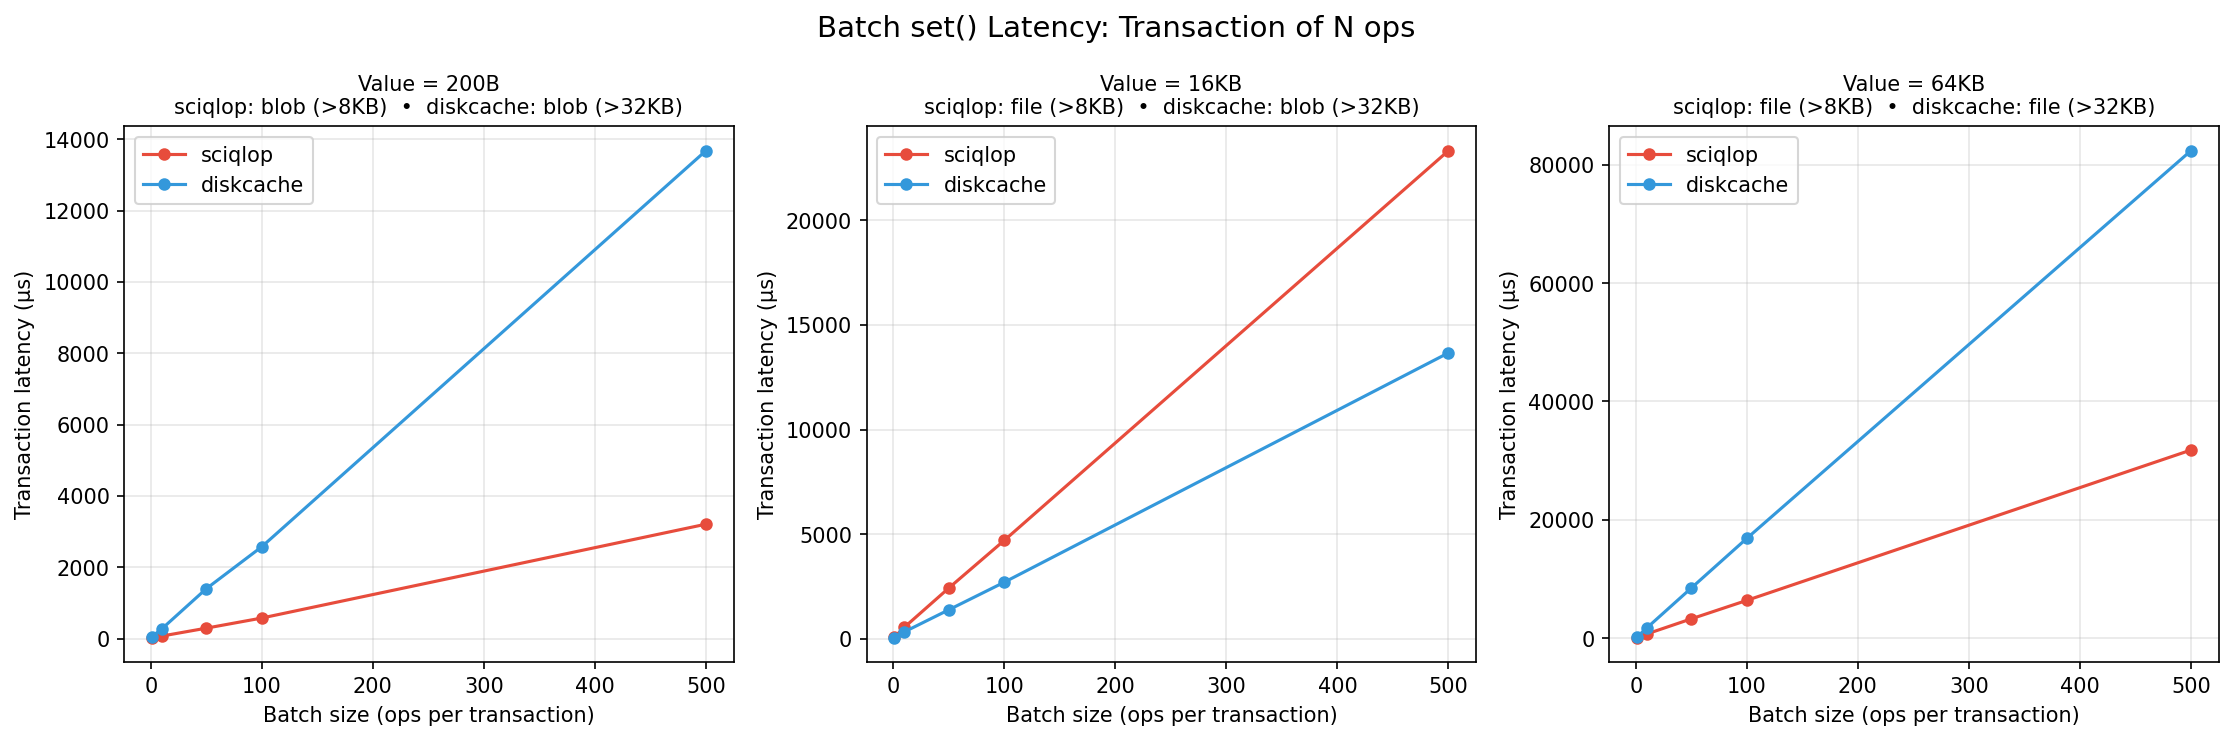
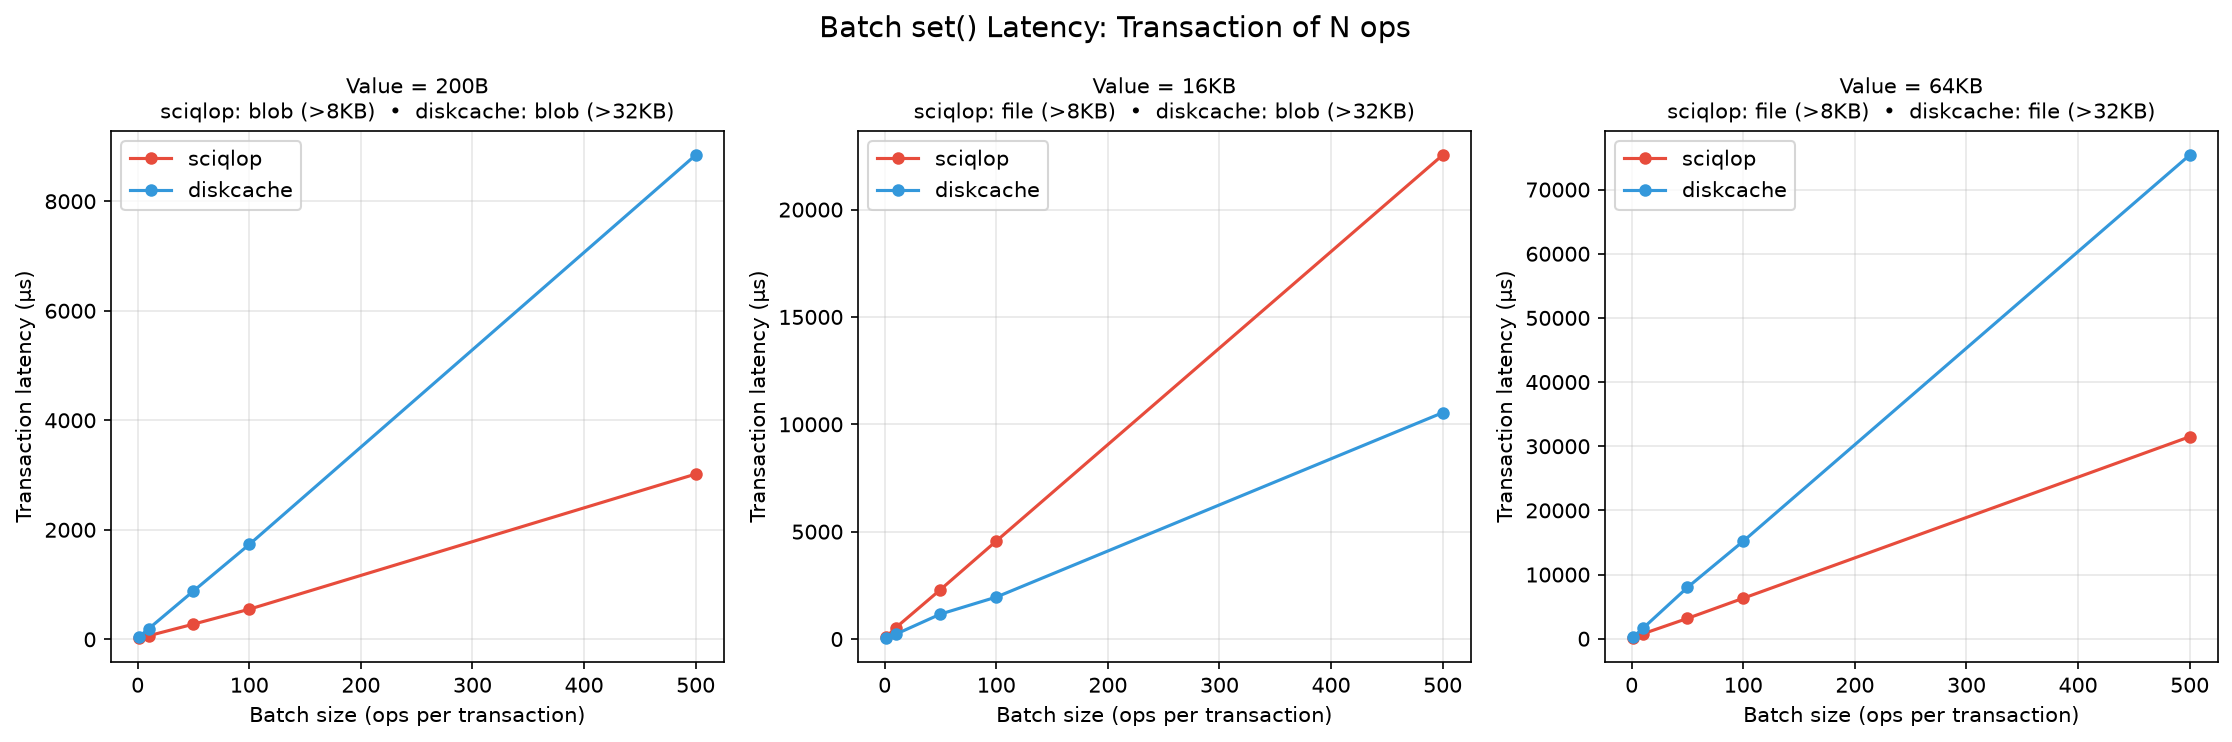
bench: add a size-limited series to the value-size benchmark
diskcache runs with its default 1 GiB size limit, so a SciQLop Cache
with the same limit is the like-for-like line. It now follows the
unlimited one: a read on a size-limited cache no longer writes.

Refresh the Linux value-size and batch results and the numbers quoted
in docs/performance.rst.

diff --git a/benchmark/plot_valuesize.py b/benchmark/plot_valuesize.py
@@ -43,7 +43,8 @@ def fmt_size(n):
     return f"{n}B"
 
 
-COLORS = {"sciqlop": "#e74c3c", "diskcache": "#3498db"}
+COLORS = {"sciqlop": "#e74c3c", "sciqlop (size limit)": "#e74c3c", "diskcache": "#3498db"}
+LINESTYLES = {"sciqlop (size limit)": "--"}
 
 # Blob-to-file storage thresholds
 SCIQLOP_FILE_THRESHOLD = 8192       # 8 KB
@@ -89,7 +90,7 @@ def plot_single_ops(rows, output):
     fig.suptitle(titled("Single-op Latency vs Value Size"), fontsize=14)
 
     for (op, title), ax in zip(ops, axes):
-        for backend in ["sciqlop", "diskcache"]:
+        for backend in COLORS:
             data = [(r["value_size"], r["latency_us"])
                     for r in rows if r["operation"] == op and r["backend"] == backend]
             if not data:
@@ -97,7 +98,7 @@ def plot_single_ops(rows, output):
             data.sort()
             sizes, latencies = zip(*data)
             ax.loglog(sizes, latencies, marker="o", color=COLORS[backend],
-                      label=backend, markersize=5)
+                      linestyle=LINESTYLES.get(backend, "-"), label=backend, markersize=5)
 
         ax.set_xlabel("Value size (bytes)")
         ax.set_ylabel("Latency (μs)")

diff --git a/benchmark/bench_valuesize.py b/benchmark/bench_valuesize.py
@@ -18,6 +18,13 @@ from diskcache import Cache as DiskCache
 VALUE_SIZES = [64, 200, 1024, 4096, 8192, 16384, 65536, 262144, 1048576]
 BATCH_SIZES = [1, 10, 50, 100, 500]
 BATCH_VALUE_SIZES = [200, 16384, 65536]
+SIZE_LIMIT = 1 << 30  # diskcache's default size_limit
+
+SINGLE_OP_BACKENDS = [
+    ("sciqlop", SciqlopCache),
+    ("sciqlop (size limit)", lambda path: SciqlopCache(path, max_size=SIZE_LIMIT)),
+    ("diskcache", DiskCache),
+]
 
 
 def measure(fn, number):
@@ -39,7 +46,7 @@ def bench_single_ops(writer):
         value = os.urandom(sz)
         iterations = max(20, 2000 // max(1, sz // 1024))
 
-        for name, factory in [("sciqlop", SciqlopCache), ("diskcache", DiskCache)]:
+        for name, factory in SINGLE_OP_BACKENDS:
             with TemporaryDirectory() as tmp:
                 cache = factory(tmp)
                 key = "bench_key"

diff --git a/docs/performance.rst b/docs/performance.rst
@@ -94,7 +94,8 @@ Scaling with the number of entries
 Latency vs value size
 =====================
 
-Raw ``bytes`` values from 64 B to 1 MB:
+Raw ``bytes`` values from 64 B to 1 MB. The dashed line is SciQLop Cache with a 1 GiB
+size limit, diskcache's default:
 
 .. tab-set::
     :sync-group: platform
@@ -111,19 +112,24 @@ Raw ``bytes`` values from 64 B to 1 MB:
         .. image:: ../benchmark/macos-m2/valuesize_chart.png
             :alt: set and get latency vs value size (macOS, Apple M2)
 
+**A size limit costs nothing.** The dashed line follows the solid one. A read doesn't
+write the entry's last use to the database: it notes it in memory, and the background
+thread writes them all once per second (see :doc:`internals`).
+
 Values from 8 KB to 32 KB are the one range where diskcache is faster. SciQLop Cache stores
 them as files, while diskcache keeps them in SQLite up to 32 KB.
 
-- **Writes:** 130 µs against 37 µs on the M2, 75–81 µs against 52–60 µs on the Ryzen. A file
-  costs ~100 µs more than a blob on the M2 (~50 µs on the Ryzen): on APFS, ``open`` with
+- **Writes:** 130 µs against 37 µs on the M2, 69–71 µs against 39–40 µs on the Ryzen. A file
+  costs ~100 µs more than a blob on the M2 (~40 µs on the Ryzen): on APFS, ``open`` with
   ``O_CREAT`` alone takes 32 µs and ``close`` 10 µs.
-- **First read of a value:** 12–15 µs against 7 µs on the Ryzen, the cost of opening the
+- **First read of a value:** 11 µs against 6–7 µs on the Ryzen, the cost of opening the
   file. From 64 KB, where diskcache uses files too, both are level.
-- **Reading the same value again** is faster than diskcache from 8 KB up, 1.5x at 16 KB
+- **Reading the same value again** is faster than diskcache from 8 KB up, 1.4x at 16 KB
   and 3x at 64 KB on the Ryzen: SciQLop Cache keeps the last 128 values it loaded from
   files in memory, so it doesn't open the file again.
 
-The M2 chart predates the "first read" measurement, so it has no third panel.
+The M2 chart predates the "first read" measurement and the size-limited line, so it has
+neither.
 
 Batched transactions
 ====================
